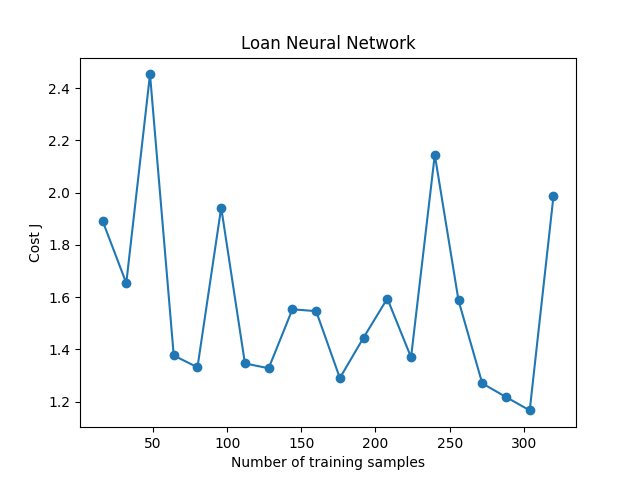
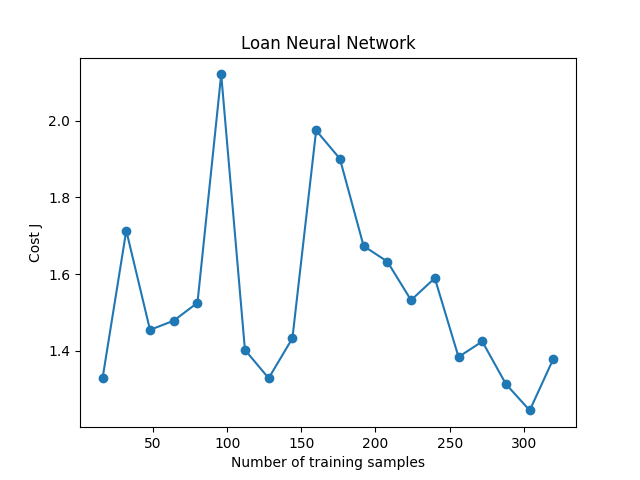
all final run and testing done

diff --git a/main.py b/main.py
@@ -31,7 +31,7 @@ titanic_feature_type = list(zip(titanic_feature_data.columns, titanic_feature_ty
 titanic_class_data = filtered_titanic_df[[titanic_class_col]]
 
 # k_NN.K_NN('Titanic K-NN', titanic_feature_data, titanic_feature_type, titanic_class_data, titanic_class_col)
-# neural_network.Neural_Network('Titanic Neural Network', titanic_feature_data, titanic_feature_type, titanic_class_data, titanic_class_col)
+neural_network.Neural_Network('Titanic Neural Network', titanic_feature_data, titanic_feature_type, titanic_class_data, titanic_class_col)
 # random_forest.Random_Forest('Titanic Random Forest', filtered_titanic_df, titanic_feature_type, titanic_class_col)
 #####################################################################################
 loan_file = './data/loan.csv'
@@ -46,8 +46,8 @@ loan_feature_type = list(zip(loan_feature_data.columns, loan_feature_type))
 
 loan_class_data = filtered_loan_df[[loan_class_col]]
 
-k_NN.K_NN('Loan K-NN', loan_feature_data, loan_feature_type, loan_class_data, loan_class_col)
-# neural_network.Neural_Network('Loan Neural Network', loan_feature_data, loan_feature_type, loan_class_data, loan_class_col)
+# k_NN.K_NN('Loan K-NN', loan_feature_data, loan_feature_type, loan_class_data, loan_class_col)
+neural_network.Neural_Network('Loan Neural Network', loan_feature_data, loan_feature_type, loan_class_data, loan_class_col)
 # random_forest.Random_Forest('Loan Random Forest', filtered_loan_df, loan_feature_type, loan_class_col)
 #####################################################################################
 parkinson_file = './data/parkinsons.csv'
